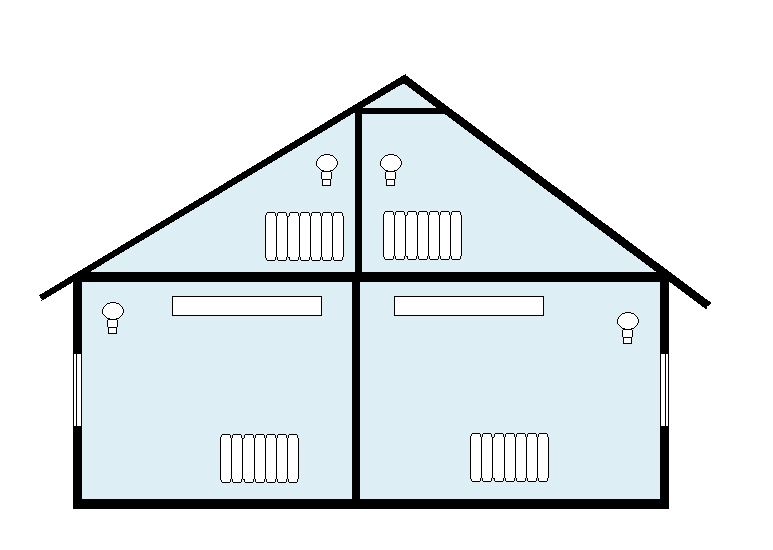
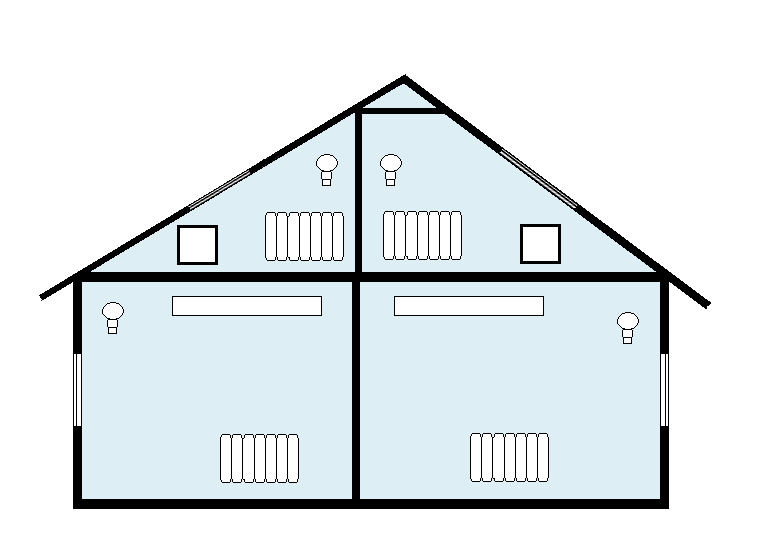
Poprawa wyglądu

diff --git a/ProjektSystemy/content/css/styl.css b/ProjektSystemy/content/css/styl.css
@@ -79,6 +79,25 @@
     margin-left: 374px;
 }
 
+#KlimatyzacjaWlaczona_3{
+    display: none;
+    position: absolute;
+    float:left;
+    margin-top: 195.5px;
+    margin-left: 148px;
+    
+}
+
+#KlimatyzacjaWlaczona_4{
+    display: none;
+    position: absolute;
+    float:left;
+    margin-top: 194px;
+    margin-left: 491px;
+}
+
+
+
 
 #SwiatloWlaczone_1{
 
@@ -123,6 +142,18 @@
     margin-left: 479px;
 
 }
+#OknoDachoweOtwarteLewe{
+
+	display: none;
+    position: absolute;
+    float:left;
+    margin-top: 155px;
+    margin-left: 185px;
+
+}
+
+
+
 
 
 #OknoLeweOtwarte{

diff --git a/ProjektSystemy/index.php b/ProjektSystemy/index.php
@@ -66,6 +66,12 @@ and open the template in the editor.
 		                <img src="content/img/dachowe okienko na świat otworzone.png" alt=""/>
 
 		            </div>
+                            
+                            <div  class="OknoPodOtw2" id="OknoDachoweOtwarteLewe">
+                                <img src="content/img/OknoDachoweLewe.png" alt=""/>
+
+		            </div>
+                            
 
 		            <div id="SwiatloWlaczone_1">
 		                <img src="content/img/lampeczka świeci.png" alt=""/>
@@ -93,6 +99,16 @@ and open the template in the editor.
 		            <div id="KlimatyzacjaWlaczona_2">
 		                <img src="content/img/nibyklima dziala.png" alt=""/>
 		            </div>
+                            
+                              <div id="KlimatyzacjaWlaczona_3">
+                                  <img src="content/img/klimatyzacjaGorna.png" alt=""/>
+		            </div>
+                            
+                            <div id="KlimatyzacjaWlaczona_4">
+		                <img src="content/img/klimatyzacjaGorna.png" alt=""/>
+		            </div>
+                            
+                            
 		        </div>
 
             <div class="panel-default">
@@ -221,7 +237,7 @@ and open the template in the editor.
         <?php
         // put your code here
         ?>
-        <script>
+<!--        <script>
 			// visulase rain state
 			$(document).ready(function() {
 
@@ -276,6 +292,6 @@ and open the template in the editor.
 
 			updateValues();
 			
-		</script>
+		</script>-->
     </body>
 </html>
